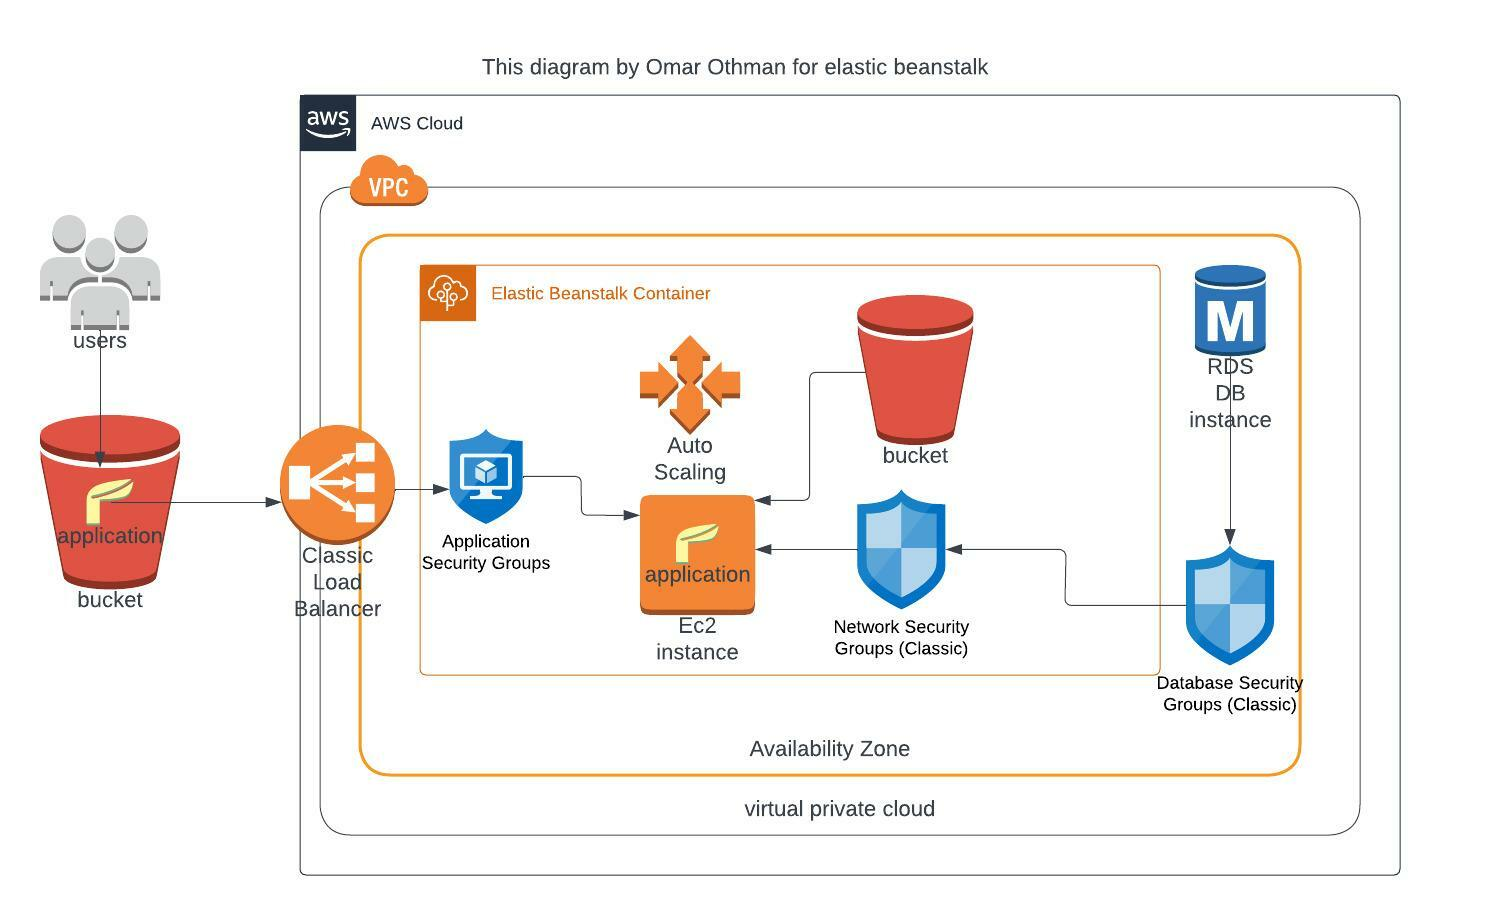
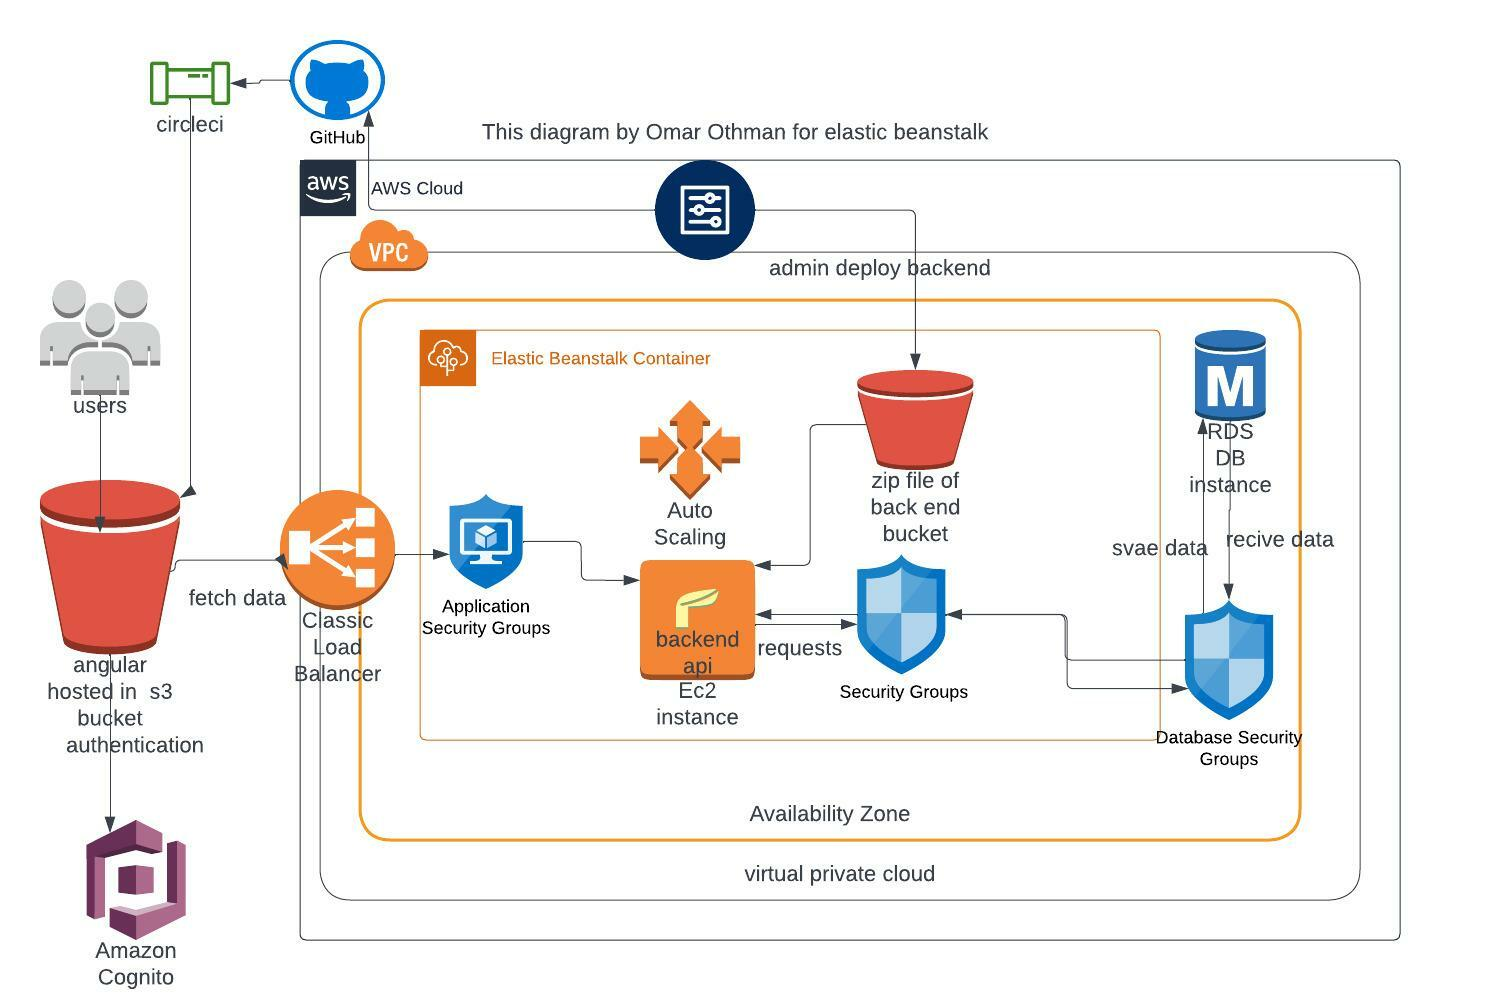
edit documents

diff --git a/docs/Infrastructure.md b/docs/Infrastructure.md
@@ -1,0 +1,12 @@
+# Infrastructure 
+
+ ## Database
+      RDS AWS postgrase  with security group
+ ## Backend
+       node js web application framework that provides broad features for building web 
+        - Allows  respond to HTTP Requests.
+        -Defines a routing table which is used to perform different actions based on HTTP Method and URL.
+        - authentication and authorization 
+
+## Frontend 
+     Angular 13 is a platform and framework for building single-page client applications using HTML and TypeScript. Angular is written in TypeScript

diff --git a/docs/Pipelineprocess.md b/docs/Pipelineprocess.md
@@ -1,0 +1,4 @@
+
+# Pipeline Processing
+
+CircleCI pipelines are the highest-level unit of work, encompassing a project’s full .circleci/config.yml file. Pipelines include our workflows, which coordinate our jobs. They have a fixed, linear lifecycle, and are associated with a specific actor. Pipelines trigger when a change is pushed to a project that has a CircleCI configuration file included, and can also be scheduled, triggered manually through the CircleCI app and GitHub

diff --git a/docs/Appdependencies.md b/docs/Appdependencies.md
@@ -1,0 +1,17 @@
+# App dependency
+
+## Backend 
+   npm version = 8.5.0
+    node version = 16.14.2
+    db-migrate  for migrations 
+    dotenv for app environments
+    jsonwebtoken for authentication
+    jasmine for testing
+## frontend
+    angular version 13.3.0
+    @auth0/angular-jwt for jsonwebtoken for authentication
+    alertifyjs for alert message
+    bootstrap 
+    font-awesome
+    ngx-bootstrap
+    karma-jasmine for testing

diff --git a/shopping_app_api/README.md b/shopping_app_api/README.md
@@ -16,7 +16,7 @@ yarn             # For dependency management
   
 
  # Add env file
-   add a .env file in the root directory add the following information
+   add a `.env` file in the root directory add the following information
 
       POSTGRES_host =localhost
       POSTGRES_PORT=5432
